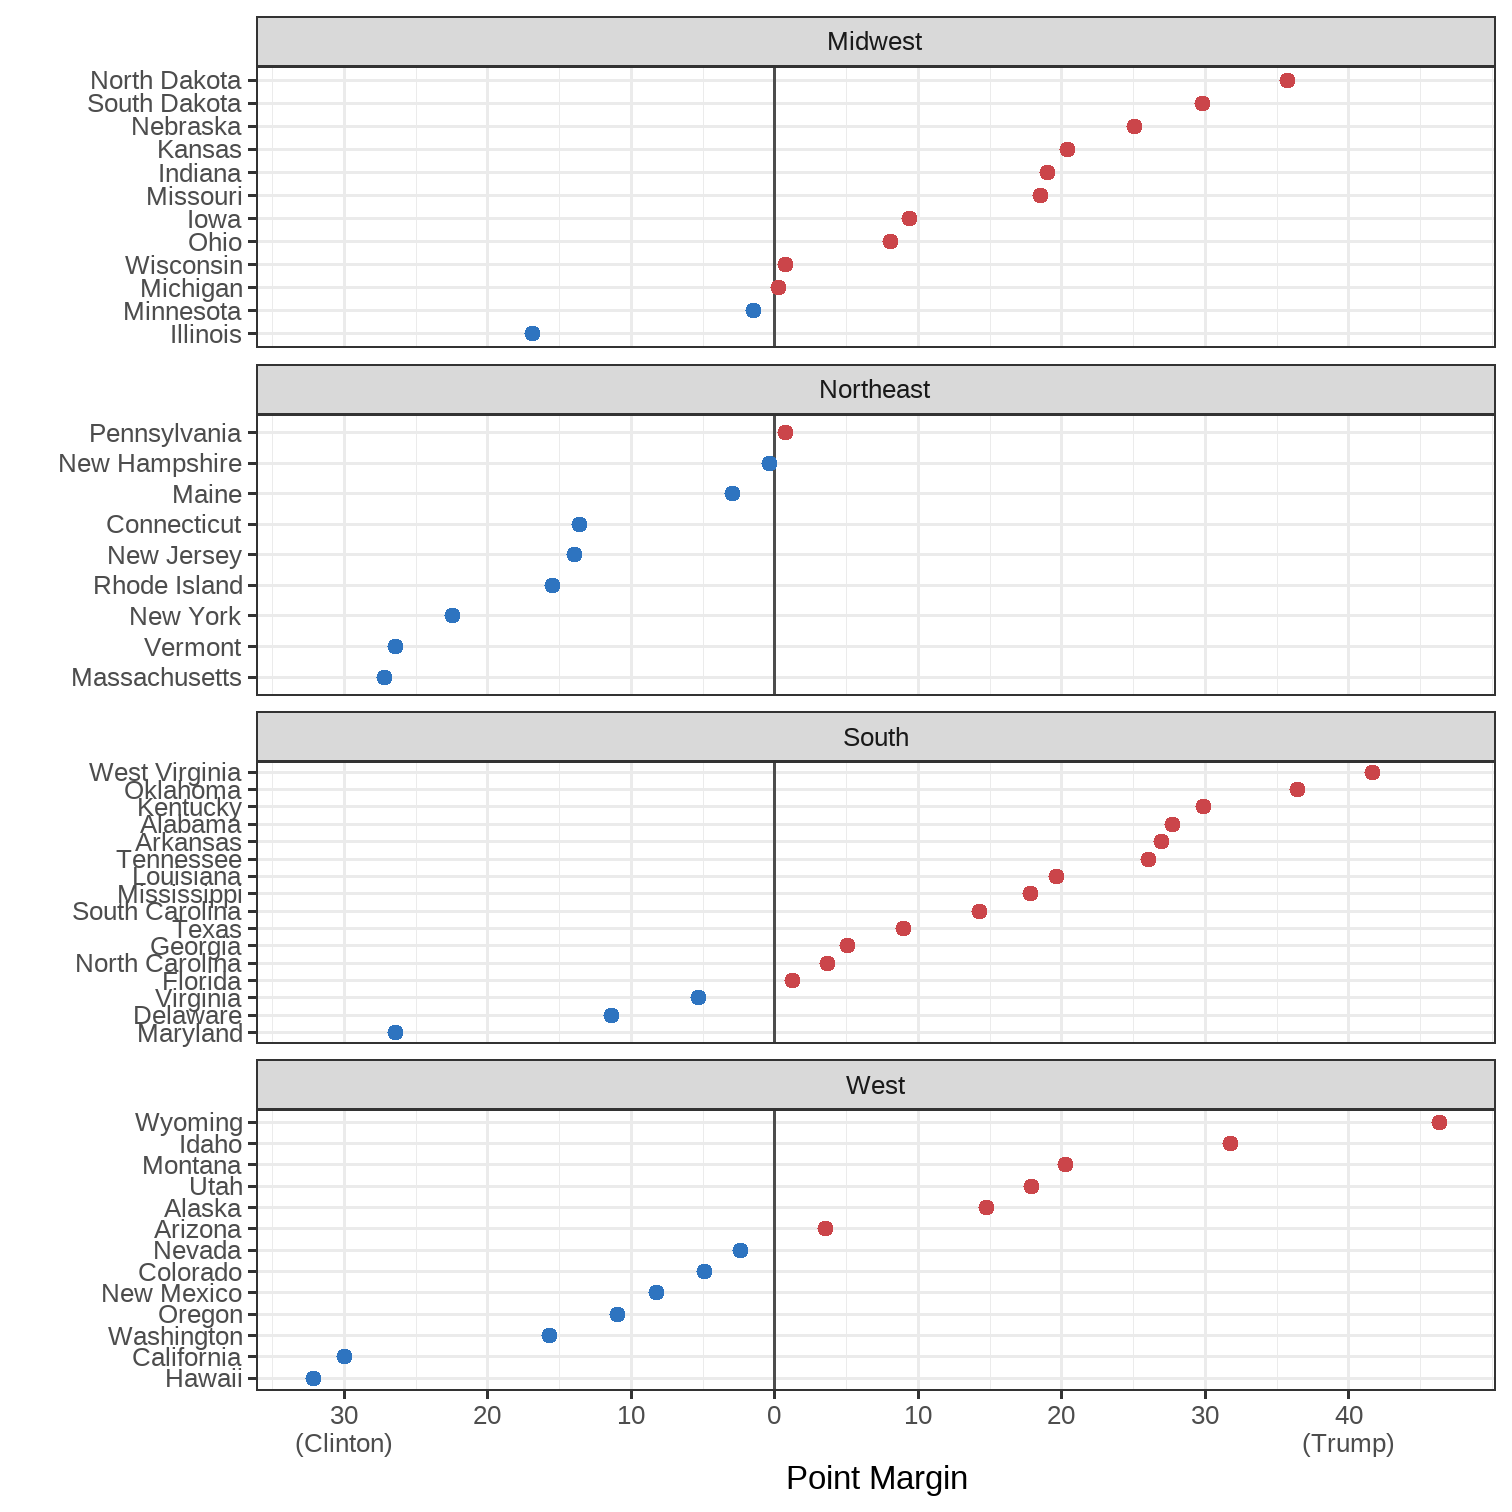
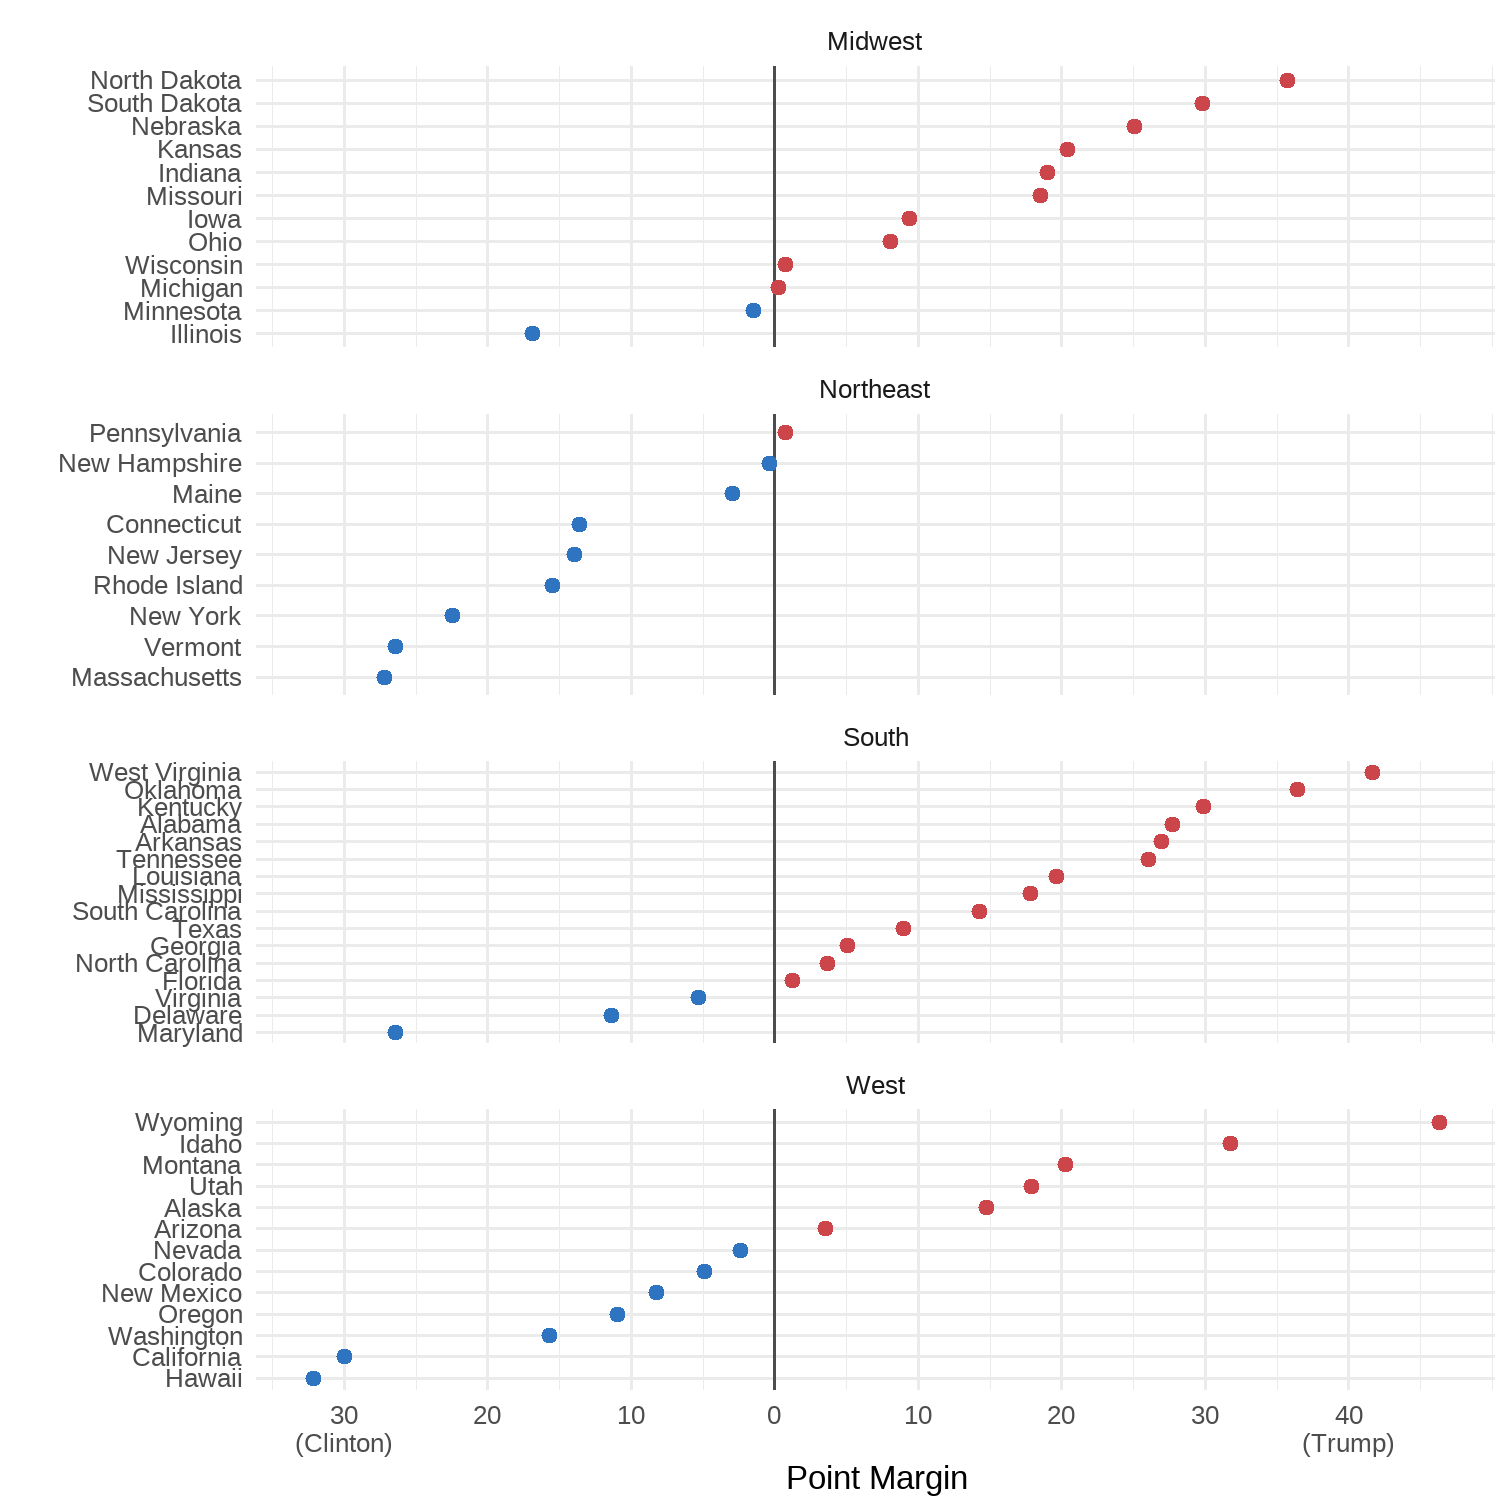
week 8 - adjusted theme for plot on slides

diff --git a/Week 8/Week-8-Slides.html b/Week 8/Week-8-Slides.html
@@ -157,7 +157,7 @@ class: center, middle
 
 # 15 Minute Break
 
-<div class="countdown" id="timer_60208ed6" style="right:37%;bottom:25%;" data-warnwhen="60">
+<div class="countdown" id="timer_60209b9c" style="right:37%;bottom:25%;" data-warnwhen="60">
 <code class="countdown-time"><span class="countdown-digits minutes">15</span><span class="countdown-digits colon">:</span><span class="countdown-digits seconds">00</span></code>
 </div>
 
@@ -181,60 +181,68 @@ class: center, middle
  &lt;/thead&gt;
 &lt;tbody&gt;
   &lt;tr&gt;
-   &lt;td style="text-align:left;"&gt; Tennessee &lt;/td&gt;
-   &lt;td style="text-align:right;"&gt; 2508027 &lt;/td&gt;
-   &lt;td style="text-align:right;"&gt; 26.00 &lt;/td&gt;
-   &lt;td style="text-align:right;"&gt; 60.72 &lt;/td&gt;
+   &lt;td style="text-align:left;"&gt; Rhode Island &lt;/td&gt;
+   &lt;td style="text-align:right;"&gt; 464144 &lt;/td&gt;
+   &lt;td style="text-align:right;"&gt; -15.51 &lt;/td&gt;
+   &lt;td style="text-align:right;"&gt; 38.90 &lt;/td&gt;
+   &lt;td style="text-align:left;"&gt; Democratic &lt;/td&gt;
+   &lt;td style="text-align:left;"&gt; Northeast &lt;/td&gt;
+  &lt;/tr&gt;
+  &lt;tr&gt;
+   &lt;td style="text-align:left;"&gt; Nebraska &lt;/td&gt;
+   &lt;td style="text-align:right;"&gt; 844227 &lt;/td&gt;
+   &lt;td style="text-align:right;"&gt; 25.05 &lt;/td&gt;
+   &lt;td style="text-align:right;"&gt; 58.75 &lt;/td&gt;
+   &lt;td style="text-align:left;"&gt; Republican &lt;/td&gt;
+   &lt;td style="text-align:left;"&gt; Midwest &lt;/td&gt;
+  &lt;/tr&gt;
+  &lt;tr&gt;
+   &lt;td style="text-align:left;"&gt; North Carolina &lt;/td&gt;
+   &lt;td style="text-align:right;"&gt; 4741564 &lt;/td&gt;
+   &lt;td style="text-align:right;"&gt; 3.66 &lt;/td&gt;
+   &lt;td style="text-align:right;"&gt; 49.83 &lt;/td&gt;
    &lt;td style="text-align:left;"&gt; Republican &lt;/td&gt;
    &lt;td style="text-align:left;"&gt; South &lt;/td&gt;
   &lt;/tr&gt;
   &lt;tr&gt;
-   &lt;td style="text-align:left;"&gt; Connecticut &lt;/td&gt;
-   &lt;td style="text-align:right;"&gt; 1644920 &lt;/td&gt;
-   &lt;td style="text-align:right;"&gt; -13.64 &lt;/td&gt;
-   &lt;td style="text-align:right;"&gt; 40.93 &lt;/td&gt;
+   &lt;td style="text-align:left;"&gt; New Jersey &lt;/td&gt;
+   &lt;td style="text-align:right;"&gt; 3906723 &lt;/td&gt;
+   &lt;td style="text-align:right;"&gt; -13.99 &lt;/td&gt;
+   &lt;td style="text-align:right;"&gt; 41.00 &lt;/td&gt;
    &lt;td style="text-align:left;"&gt; Democratic &lt;/td&gt;
    &lt;td style="text-align:left;"&gt; Northeast &lt;/td&gt;
   &lt;/tr&gt;
   &lt;tr&gt;
-   &lt;td style="text-align:left;"&gt; Vermont &lt;/td&gt;
-   &lt;td style="text-align:right;"&gt; 315067 &lt;/td&gt;
-   &lt;td style="text-align:right;"&gt; -26.41 &lt;/td&gt;
-   &lt;td style="text-align:right;"&gt; 30.27 &lt;/td&gt;
-   &lt;td style="text-align:left;"&gt; Democratic &lt;/td&gt;
-   &lt;td style="text-align:left;"&gt; Northeast &lt;/td&gt;
-  &lt;/tr&gt;
-  &lt;tr&gt;
-   &lt;td style="text-align:left;"&gt; Alaska &lt;/td&gt;
-   &lt;td style="text-align:right;"&gt; 318608 &lt;/td&gt;
-   &lt;td style="text-align:right;"&gt; 14.73 &lt;/td&gt;
-   &lt;td style="text-align:right;"&gt; 51.28 &lt;/td&gt;
+   &lt;td style="text-align:left;"&gt; Ohio &lt;/td&gt;
+   &lt;td style="text-align:right;"&gt; 5536547 &lt;/td&gt;
+   &lt;td style="text-align:right;"&gt; 8.07 &lt;/td&gt;
+   &lt;td style="text-align:right;"&gt; 51.31 &lt;/td&gt;
    &lt;td style="text-align:left;"&gt; Republican &lt;/td&gt;
+   &lt;td style="text-align:left;"&gt; Midwest &lt;/td&gt;
+  &lt;/tr&gt;
+  &lt;tr&gt;
+   &lt;td style="text-align:left;"&gt; Indiana &lt;/td&gt;
+   &lt;td style="text-align:right;"&gt; 2757965 &lt;/td&gt;
+   &lt;td style="text-align:right;"&gt; 19.01 &lt;/td&gt;
+   &lt;td style="text-align:right;"&gt; 56.47 &lt;/td&gt;
+   &lt;td style="text-align:left;"&gt; Republican &lt;/td&gt;
+   &lt;td style="text-align:left;"&gt; Midwest &lt;/td&gt;
+  &lt;/tr&gt;
+  &lt;tr&gt;
+   &lt;td style="text-align:left;"&gt; New Mexico &lt;/td&gt;
+   &lt;td style="text-align:right;"&gt; 798319 &lt;/td&gt;
+   &lt;td style="text-align:right;"&gt; -8.22 &lt;/td&gt;
+   &lt;td style="text-align:right;"&gt; 40.04 &lt;/td&gt;
+   &lt;td style="text-align:left;"&gt; Democratic &lt;/td&gt;
    &lt;td style="text-align:left;"&gt; West &lt;/td&gt;
   &lt;/tr&gt;
   &lt;tr&gt;
-   &lt;td style="text-align:left;"&gt; Colorado &lt;/td&gt;
-   &lt;td style="text-align:right;"&gt; 2780247 &lt;/td&gt;
-   &lt;td style="text-align:right;"&gt; -4.91 &lt;/td&gt;
-   &lt;td style="text-align:right;"&gt; 43.25 &lt;/td&gt;
-   &lt;td style="text-align:left;"&gt; Democratic &lt;/td&gt;
-   &lt;td style="text-align:left;"&gt; West &lt;/td&gt;
-  &lt;/tr&gt;
-  &lt;tr&gt;
-   &lt;td style="text-align:left;"&gt; New Hampshire &lt;/td&gt;
-   &lt;td style="text-align:right;"&gt; 744296 &lt;/td&gt;
-   &lt;td style="text-align:right;"&gt; -0.37 &lt;/td&gt;
-   &lt;td style="text-align:right;"&gt; 46.46 &lt;/td&gt;
-   &lt;td style="text-align:left;"&gt; Democratic &lt;/td&gt;
-   &lt;td style="text-align:left;"&gt; Northeast &lt;/td&gt;
-  &lt;/tr&gt;
-  &lt;tr&gt;
-   &lt;td style="text-align:left;"&gt; Pennsylvania &lt;/td&gt;
-   &lt;td style="text-align:right;"&gt; 6166729 &lt;/td&gt;
-   &lt;td style="text-align:right;"&gt; 0.71 &lt;/td&gt;
-   &lt;td style="text-align:right;"&gt; 48.17 &lt;/td&gt;
+   &lt;td style="text-align:left;"&gt; Kansas &lt;/td&gt;
+   &lt;td style="text-align:right;"&gt; 1194755 &lt;/td&gt;
+   &lt;td style="text-align:right;"&gt; 20.42 &lt;/td&gt;
+   &lt;td style="text-align:right;"&gt; 56.16 &lt;/td&gt;
    &lt;td style="text-align:left;"&gt; Republican &lt;/td&gt;
-   &lt;td style="text-align:left;"&gt; Northeast &lt;/td&gt;
+   &lt;td style="text-align:left;"&gt; Midwest &lt;/td&gt;
   &lt;/tr&gt;
   &lt;tr&gt;
    &lt;td style="text-align:left;"&gt; Montana &lt;/td&gt;
@@ -250,14 +258,6 @@ class: center, middle
    &lt;td style="text-align:right;"&gt; -10.98 &lt;/td&gt;
    &lt;td style="text-align:right;"&gt; 39.09 &lt;/td&gt;
    &lt;td style="text-align:left;"&gt; Democratic &lt;/td&gt;
-   &lt;td style="text-align:left;"&gt; West &lt;/td&gt;
-  &lt;/tr&gt;
-  &lt;tr&gt;
-   &lt;td style="text-align:left;"&gt; Idaho &lt;/td&gt;
-   &lt;td style="text-align:right;"&gt; 690433 &lt;/td&gt;
-   &lt;td style="text-align:right;"&gt; 31.77 &lt;/td&gt;
-   &lt;td style="text-align:right;"&gt; 59.25 &lt;/td&gt;
-   &lt;td style="text-align:left;"&gt; Republican &lt;/td&gt;
    &lt;td style="text-align:left;"&gt; West &lt;/td&gt;
   &lt;/tr&gt;
 &lt;/tbody&gt;
@@ -580,7 +580,7 @@ ggplot(data = subset(election, st %nin% "DC"),
   labs(x = "Point Margin",
        y = "") +
   theme(axis.text = element_text(size = 8)) +
-* theme_bw()
+* theme_minimal()
 ```
 ]
  
@@ -617,7 +617,7 @@ ggplot(data = subset(election, st %nin% "DC"),
   labs(x = "Point Margin",
        y = "") +
   theme(axis.text = element_text(size = 8)) +
-  theme_bw()
+  theme_minimal()
 ```
 ]
  
